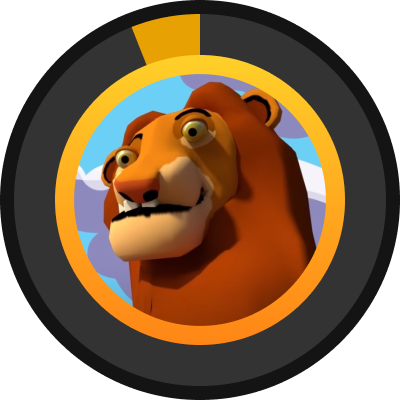
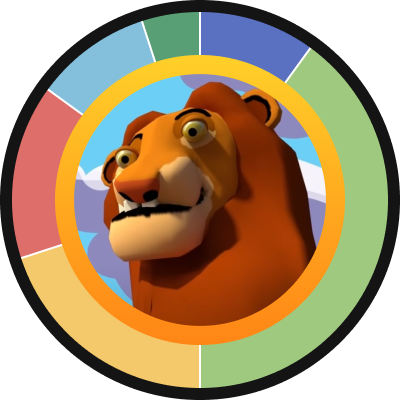
update landing page

Changed region(s): [[0.03, 0.03, 0.99, 0.99]]

diff --git a/src/pages/Landing/Tokenomic/index.jsx b/src/pages/Landing/Tokenomic/index.jsx
@@ -3,6 +3,7 @@ import {
   Chart,
   ChartContainer,
   ChartInfo,
+  ChartInfoContainer,
   Container,
   Reminder,
   TokenomicContainer,
@@ -21,35 +22,95 @@ export default function Tokenomic() {
           Lorem ipsum dolor sit amet, consectetur adipiscing elit. Sed dapibus mauris id ante dapibus
         </TokenomicSubTitle> */}
         <ChartContainer>
-          <ChartInfo>
-            <div>
-              <div className="solid"></div>
-              <span>94%</span>
-            </div>
-            <div>Liquidity Pool</div>
-          </ChartInfo>
-          <img src={tokenomicChartImg} />
-          <ChartInfo>
-            <div>
-              <div></div>
-              <span>6%</span>
-            </div>
-            <div>Marketing Activities</div>
-          </ChartInfo>
-          <div className="mobile">
-            <ChartInfo>
+          <ChartInfoContainer>
+            <ChartInfo solidColor="#DE6E6A">
               <div>
                 <div className="solid"></div>
-                <span>94%</span>
+                <span>15%</span>
               </div>
-              <div>Liquidity Pool</div>
+              <div>Staking Reward</div>
             </ChartInfo>
-            <ChartInfo>
+            <ChartInfo solidColor="#84BFDB">
               <div>
-                <div></div>
-                <span>6%</span>
+                <div className="solid"></div>
+                <span>10%</span>
               </div>
-              <div>Marketing Activities</div>
+              <div>Team</div>
+            </ChartInfo>
+            <ChartInfo solidColor="#599F76">
+              <div>
+                <div className="solid"></div>
+                <span>5%</span>
+              </div>
+              <div>Marketing</div>
+            </ChartInfo>
+          </ChartInfoContainer>
+          <img src={tokenomicChartImg} />
+          <ChartInfoContainer>
+            <ChartInfo solidColor="#9EC97F">
+              <div>
+                <div className="solid"></div>
+                <span>40%</span>
+              </div>
+              <div>Liquidity</div>
+            </ChartInfo>
+            <ChartInfo solidColor="#5971C0">
+              <div>
+                <div className="solid"></div>
+                <span>10%</span>
+              </div>
+              <div>Airdrop</div>
+            </ChartInfo>
+            <ChartInfo solidColor="#F3C96B">
+              <div>
+                <div className="solid"></div>
+                <span>20%</span>
+              </div>
+              <div>Mufasa ecosystem</div>
+            </ChartInfo>
+          </ChartInfoContainer>
+          <div className="mobile">
+            <ChartInfo solidColor="#DE6E6A">
+              <div>
+                <div className="solid"></div>
+                <span>15%</span>
+              </div>
+              <div>Staking Reward</div>
+            </ChartInfo>
+            <ChartInfo solidColor="#9EC97F">
+              <div>
+                <div className="solid"></div>
+                <span>40%</span>
+              </div>
+              <div>Liquidity</div>
+            </ChartInfo>
+            <ChartInfo solidColor="#84BFDB">
+              <div>
+                <div className="solid"></div>
+                <span>10%</span>
+              </div>
+              <div>Team</div>
+            </ChartInfo>
+            <ChartInfo solidColor="#5971C0">
+              <div>
+                <div className="solid"></div>
+                <span>10%</span>
+              </div>
+              <div>Airdrop</div>
+            </ChartInfo>
+            <ChartInfo solidColor="#599F76">
+              <div>
+                <div className="solid"></div>
+                <span>5%</span>
+              </div>
+              <div>Marketing</div>
+            </ChartInfo>
+            <ChartInfo solidColor="#F3C96B">
+              <div>
+                <div className="solid"></div>
+                <span>20%</span>
+              </div>
+              <div>Mufasa ecosystem</div>
             </ChartInfo>
           </div>
         </ChartContainer>

diff --git a/src/pages/Landing/Tokenomic/Tokenomic.styled.jsx b/src/pages/Landing/Tokenomic/Tokenomic.styled.jsx
@@ -38,7 +38,7 @@ export const Chart = styled.div`
 `;
 
 export const ChartInfo = styled.div`
-  background-color: #ffaf1d;
+  background-color: #efefef;
   width: 200px;
   padding: 20px;
   display: flex;
@@ -61,10 +61,9 @@ export const ChartInfo = styled.div`
       height: 16px;
       border: 2px solid ${({ theme }) => theme.colors.neural['800']};
       border-radius: 4px;
-      
 
       &.solid {
-        background-color: ${({ theme }) => theme.colors.neural['800']};
+        background-color: ${props => props.solidColor ? props.solidColor : '#333333'};
       }
     }
 
@@ -75,6 +74,17 @@ export const ChartInfo = styled.div`
       line-height: 27px;
       color: #0a071e;
     }
+  }
+`;
+
+export const ChartInfoContainer = styled.div`
+  display: grid;
+  grid-template-columns: 1fr;
+  grid-auto-rows: auto;
+  gap: 32px;
+
+  @media screen and (max-width: 914px) {
+    display: none;
   }
 `;
 

diff --git a/src/pages/ComingSoon/ComingSoon.styled.jsx b/src/pages/ComingSoon/ComingSoon.styled.jsx
@@ -1,0 +1,32 @@
+import { styled } from 'styled-components';
+
+export const ComingSoonContainer = styled.div`
+  margin: auto;
+  flex: 1;
+  height: 100%;
+  display: flex;
+  align-items: center;
+  justify-content: center;
+  flex-direction: column;
+  max-width: 1280px;
+  gap: 32px;
+  margin-top: 120px;
+  margin-bottom: 80px;
+
+  @media screen and (max-width: 1024px) {
+    padding: 0 24px;
+  }
+
+  > img {
+    width: 100%;
+  }
+
+  > span {
+    font-size: 40px;
+  }
+`;
+
+export const Container = styled.div`
+  width: 100%;
+  position: relative;
+`;

diff --git a/src/routes/index.jsx b/src/routes/index.jsx
@@ -1,6 +1,7 @@
 import Layout from '@/components/layouts';
 import LandingPage from '@/pages/Landing';
 import AirdropPage from '@/pages/Airdrop';
+import ComingSoonPage from '../pages/ComingSoon';
 
 export const userRoutes = [
   {
@@ -13,7 +14,11 @@ export const userRoutes = [
       },
       {
         path: '/airdrop',
-        element: <AirdropPage />,
+        element: <ComingSoonPage />,
+      },
+      {
+        path: '/forest',
+        element: <ComingSoonPage />,
       },
     ],
   },

diff --git a/src/pages/ComingSoon/index.jsx b/src/pages/ComingSoon/index.jsx
@@ -1,0 +1,14 @@
+import React from 'react'
+import AirdropTutorialImg from '@/assets/images/png/airdrop-tutorial.png';
+import { ComingSoonContainer, Container } from './ComingSoon.styled';
+
+export default function ComingSoon() {
+  return (
+    <Container>
+        <ComingSoonContainer>
+            <img src={AirdropTutorialImg} />
+            <span>Coming soon</span>
+        </ComingSoonContainer>
+    </Container>
+  )
+}
